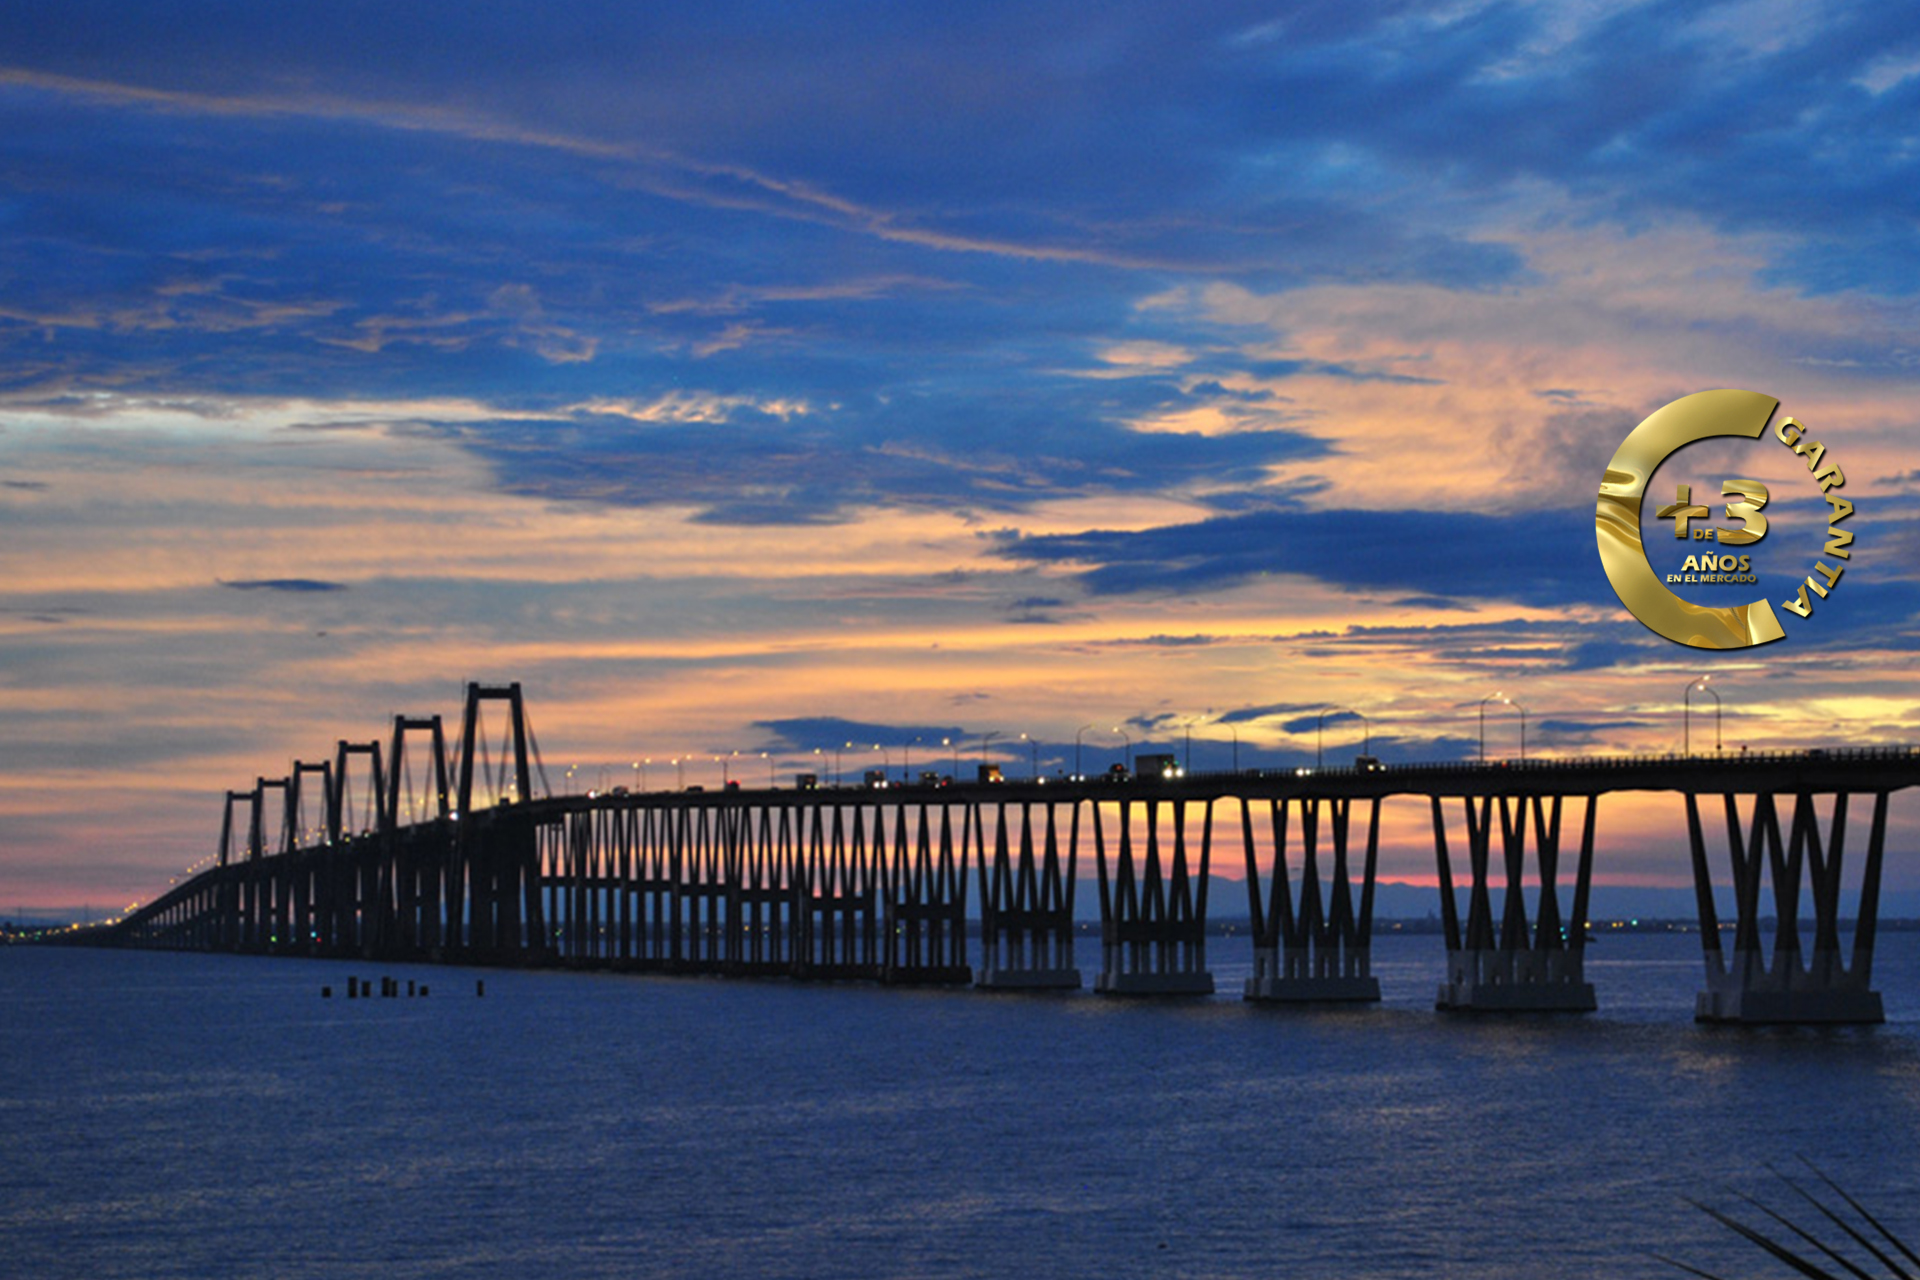
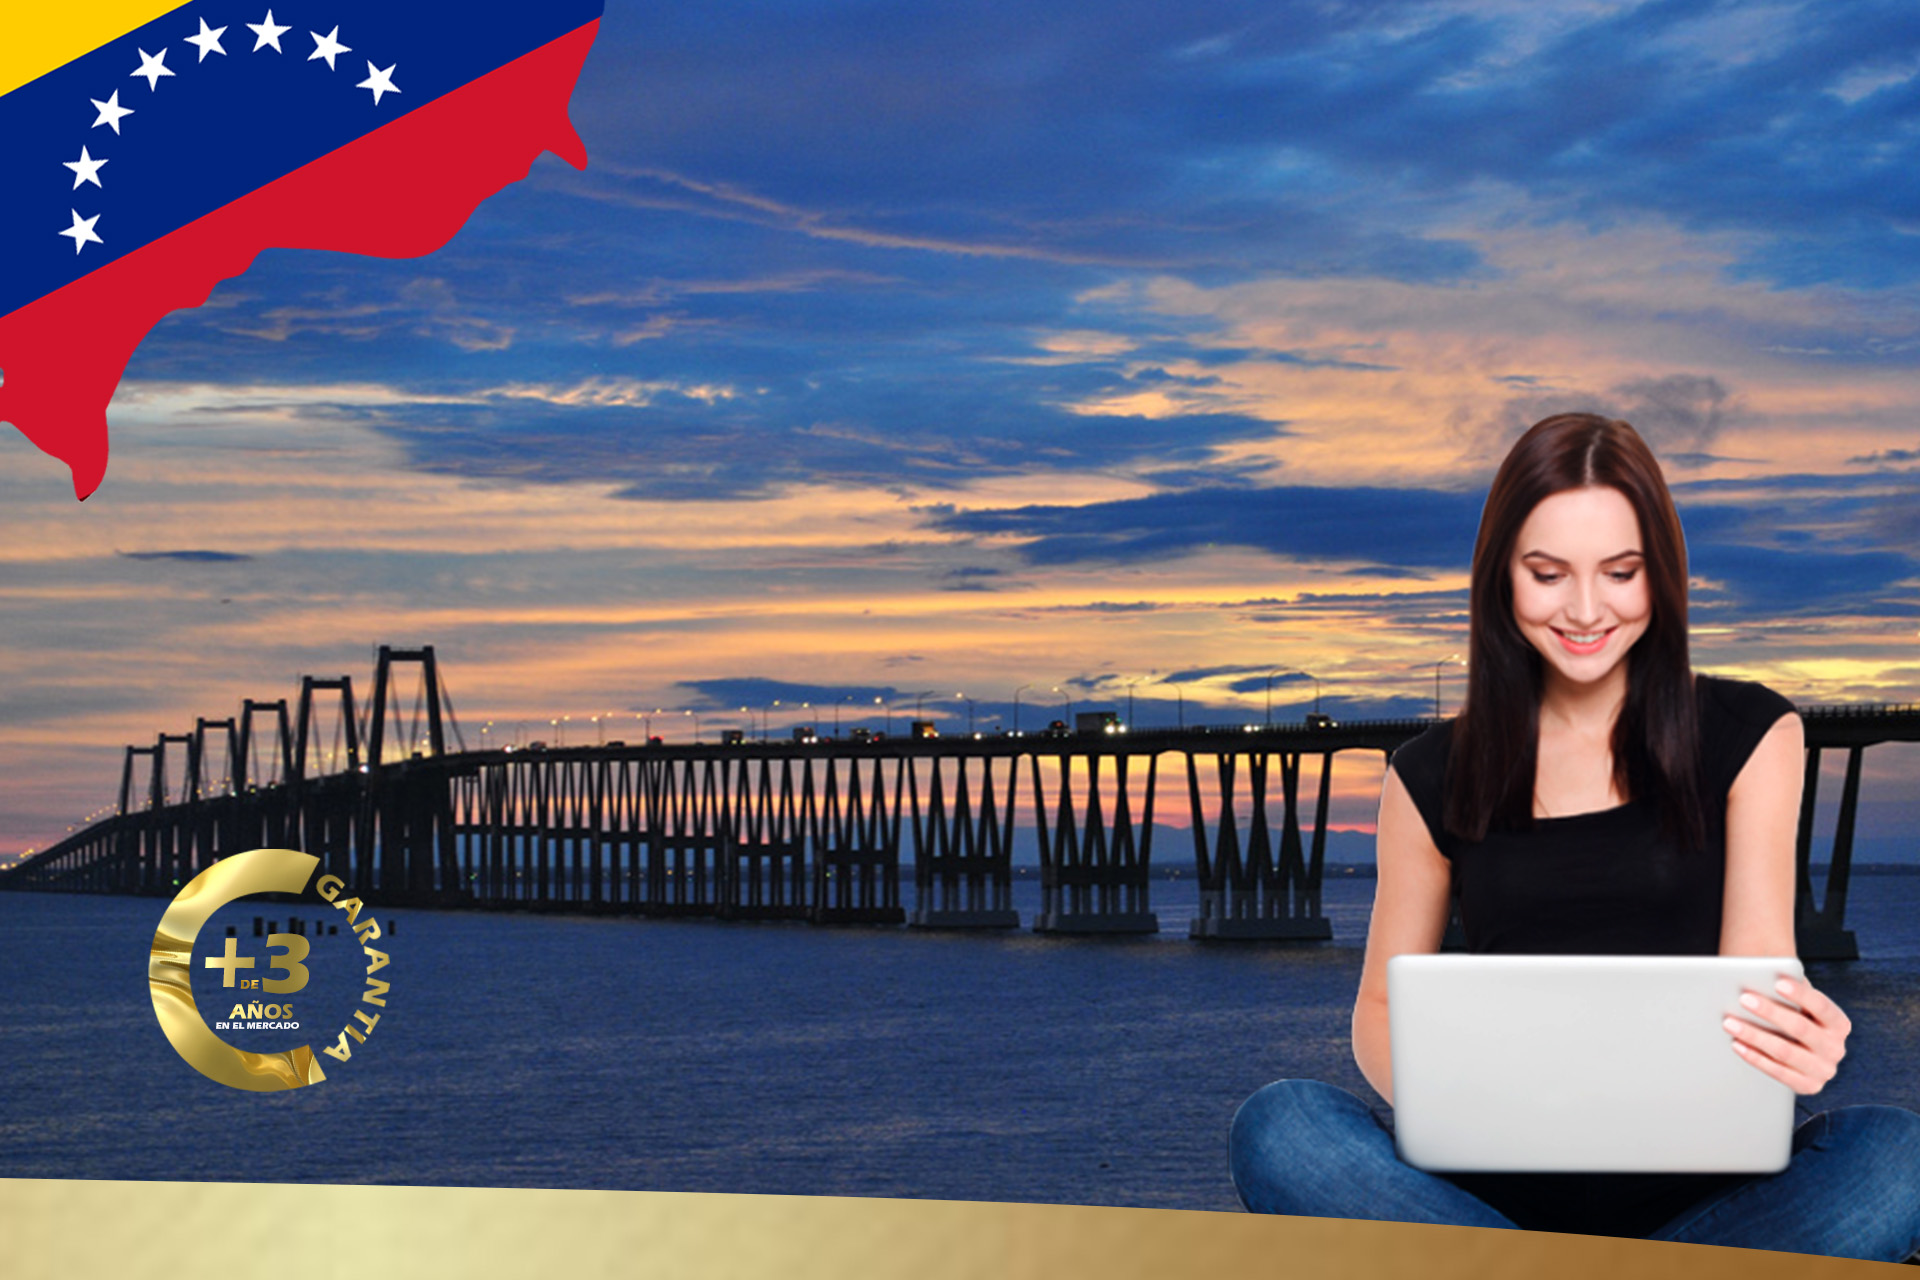
changes portada

diff --git a/index.html b/index.html
@@ -331,11 +331,14 @@
           <div class="col-xl-6 col-lg-7" data-aos="fade-right">
             <div id="carouselExampleSlidesOnly" class="carousel slide" data-ride="carousel">
               <div class="carousel-inner">
-                <div class="carousel-item active">
-                  <img class="d-block w-100" src="assets/img/venecol 3.jpg" alt="venecol" id="picture">
-                </div>
                 <div class="carousel-item">
                   <img class="d-block w-100" src="assets/img/3pasos.png" alt="venecol" id="picture">
+                </div>
+                <div class="carousel-item active">
+                  <img class="d-block w-100" src="assets/img/venecol 02.jpg" alt="venecol" id="picture">
+                </div>
+                <div class="carousel-item">
+                  <img class="d-block w-100" src="assets/img/venecol 3.jpg" alt="venecol" id="picture">
                 </div>
               </div>
             </div>

diff --git a/assets/css/style.css b/assets/css/style.css
@@ -341,7 +341,7 @@ h1, h2, h3, h4, h5, h6 {
 #hero {
   width: 100%;
   height: calc(100vh - 72px);
-  background: url("../img/nombre.jpg") center center;
+  background: url("../img/nombre.jpg");
   background-size: cover;
   position: relative;
   margin-top: 72px;
